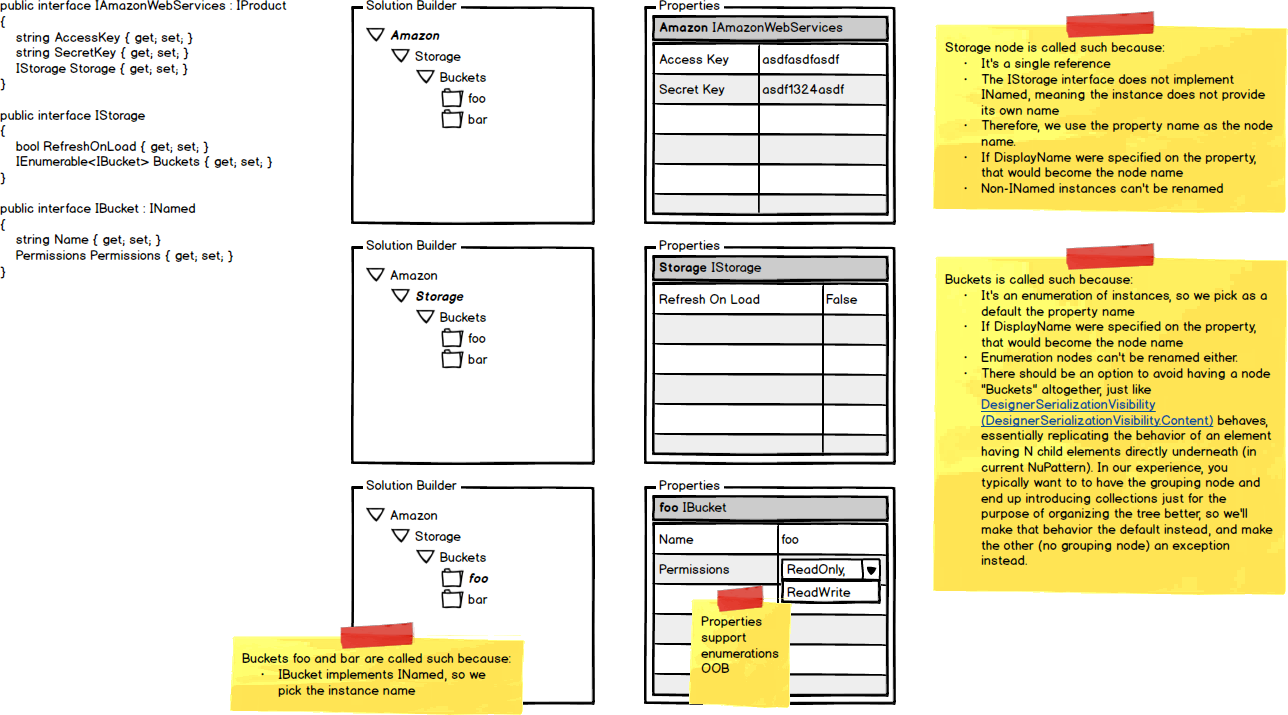
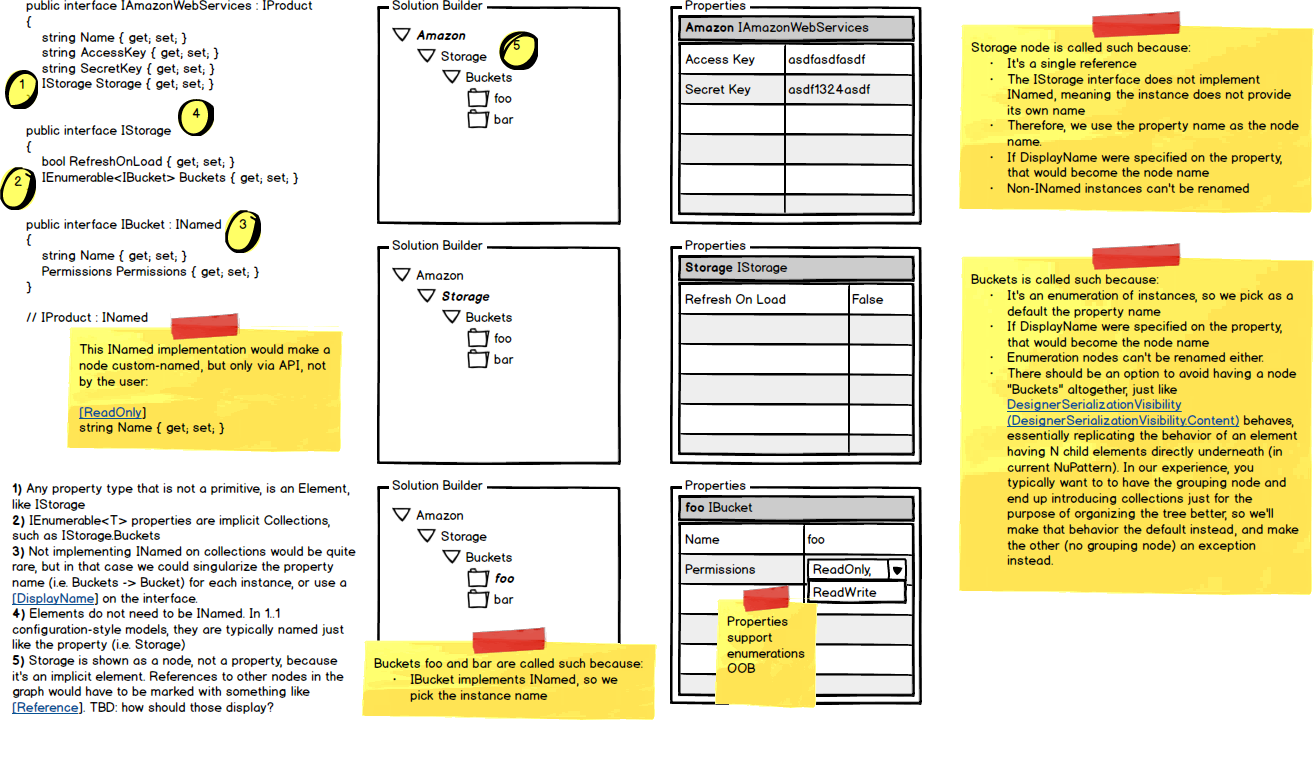
Added mockups, simplified model to start with the schema API

diff --git a/UnitTests/Tookit/Advanced/Model.cs b/UnitTests/Tookit/Advanced/Model.cs
@@ -1,0 +1,91 @@
+namespace NuPattern.Tookit.Advanced
+{
+    using System;
+    using System.Collections.Generic;
+    using System.Linq;
+
+    public enum Visibility
+    {
+        Hidden,
+        Visible,
+        Content
+    }
+
+    public class VisibilityAttribute
+    {
+        public VisibilityAttribute()
+        {
+
+        }
+    }
+
+
+    // Product
+    public interface IAws
+    {
+        // Primitive properties
+        string AccessKey { get; set; }
+        string SecretKey { get; set; }
+        // Direct element reference 1..1, auto-create most likely
+        IStorage Storage { get; set; }
+    }
+
+    // Element
+    public interface IStorage
+    {
+        // Direct collection reference, 1..1 auto-create most likely
+        IBuckets Buckets { get; set; }
+
+        // Whether to display or not the containing property name
+        // as a node (non-delete-able in this case.
+        // An attribute like DesignerSerializationVisibility with Hidden, Visible and Content
+        // would be very useful here. 
+        // Hidden: the property and its children are not shown on the tree
+        // Visible: the property and its children are shown
+        // Content: only the children are shown, not the property node.
+        IEnumerable<IBuckets> BucketGroups { get; }
+    }
+
+    // Collection with properties and child elements.
+    // Note: in original NuPattern, collections could contain 
+    // arbitrary element types, here it looks we're limiting 
+    // to just one, unless we implement multiple IEnumerable<T>...
+    public interface IBuckets : IEnumerable<IBucket>
+    {
+        // Collection primitive property
+        bool RefreshOnLoad { get; set; }
+    }
+
+    // Element
+    public interface IBucket
+    {
+        // Element primitive properties
+        string Name { get; set; }
+        Permissions Permissions { get; set; }
+        // Element list property, 0..n most likely.
+        IEnumerable<IObject> Objects { get; set; }
+    }
+
+    public interface IObject
+    {
+        string Key { get; set; }
+        byte[] Value { get; set; }
+        // Element-level property override from IBucket.Permissions.
+        Permissions Permissions { get; set; }
+
+        // Pointer to the parent node, should be a Reference, rather than a 
+        // contained element. Denoted by it being read-only. Will need a value 
+        // provider to get its value.
+        // Should show up in the properties window only, not as a 
+        // nested node? Typically hidden also... maybe these are 
+        // default conventions?
+        IBucket Bucket { get; }
+    }
+
+    public enum Permissions
+    {
+        ReadOnly,
+        ReadWrite,
+    }
+
+}

diff --git a/UnitTests/Tookit/Simple/Model.cs b/UnitTests/Tookit/Simple/Model.cs
@@ -1,0 +1,60 @@
+namespace NuPattern.Tookit.Simple
+{
+    using System;
+    using System.Collections.Generic;
+    using System.Linq;
+
+    // Product
+    public interface IAmazonWebServices : IPattern
+    {
+        // Primitive properties
+        string AccessKey { get; set; }
+        string SecretKey { get; set; }
+
+        // Implicit Element property. 1..1, default auto-create likely
+        IStorage Storage { get; set; }
+    }
+
+    // Element
+    public interface IStorage
+    {
+        // Element primitive property
+        bool RefreshOnLoad { get; set; }
+
+        // Implicit Collection property. 0..n, no default auto-create likely
+        // IBucket (T) implicit Element.
+        IEnumerable<IBucket> Buckets { get; }
+    }
+
+    // Element
+    public interface IBucket
+    {
+        // Element primitive properties
+        string Name { get; set; }
+        Permissions Permissions { get; set; }
+        // Element list property, 0..n most likely.
+        IEnumerable<IObject> Objects { get; set; }
+    }
+
+    public interface IObject
+    {
+        string Key { get; set; }
+        byte[] Value { get; set; }
+        // Element-level property override from IBucket.Permissions.
+        Permissions Permissions { get; set; }
+
+        // Pointer to the parent node, should be a Reference, rather than a 
+        // contained element. Denoted by it being read-only. Will need a value 
+        // provider to get its value.
+        // Should show up in the properties window only, not as a 
+        // nested node? Typically hidden also... maybe these are 
+        // default conventions?
+        IBucket Bucket { get; }
+    }
+
+    public enum Permissions
+    {
+        ReadOnly,
+        ReadWrite,
+    }
+}

diff --git a/UnitTests/Tookit/Builder.cs b/UnitTests/Tookit/Builder.cs
@@ -2,6 +2,7 @@
 {
     using NuPattern.Configuration;
     using NuPattern.Schema;
+    using NuPattern.Tookit.Simple;
     using System;
     using System.Collections.Concurrent;
     using System.Collections.Generic;
@@ -14,7 +15,7 @@
     {
         public override IToolkitSchema Build()
         {
-            this.Pattern<IAws>()
+            this.Pattern<IAmazonWebServices>()
                 .HasDisplayName("foo")
                 .HasName("bar")
                 .Property(x => x.AccessKey).Hidden();
@@ -24,7 +25,7 @@
     }
 
 
-    public class AwsConfiguration : PatternConfiguration<IAws>
+    public class AwsConfiguration : PatternConfiguration<IAmazonWebServices>
     {
         public AwsConfiguration()
         {

diff --git a/Source/INamed.cs b/Source/INamed.cs
@@ -1,0 +1,9 @@
+namespace NuPattern
+{
+    using System;
+
+    public interface INamed
+    {
+        string Name { get; set; }
+    }
+}

diff --git a/Source/IPattern.cs b/Source/IPattern.cs
@@ -1,0 +1,8 @@
+namespace NuPattern
+{
+    using System;
+
+    public interface IPattern : INamed
+    {
+    }
+}
